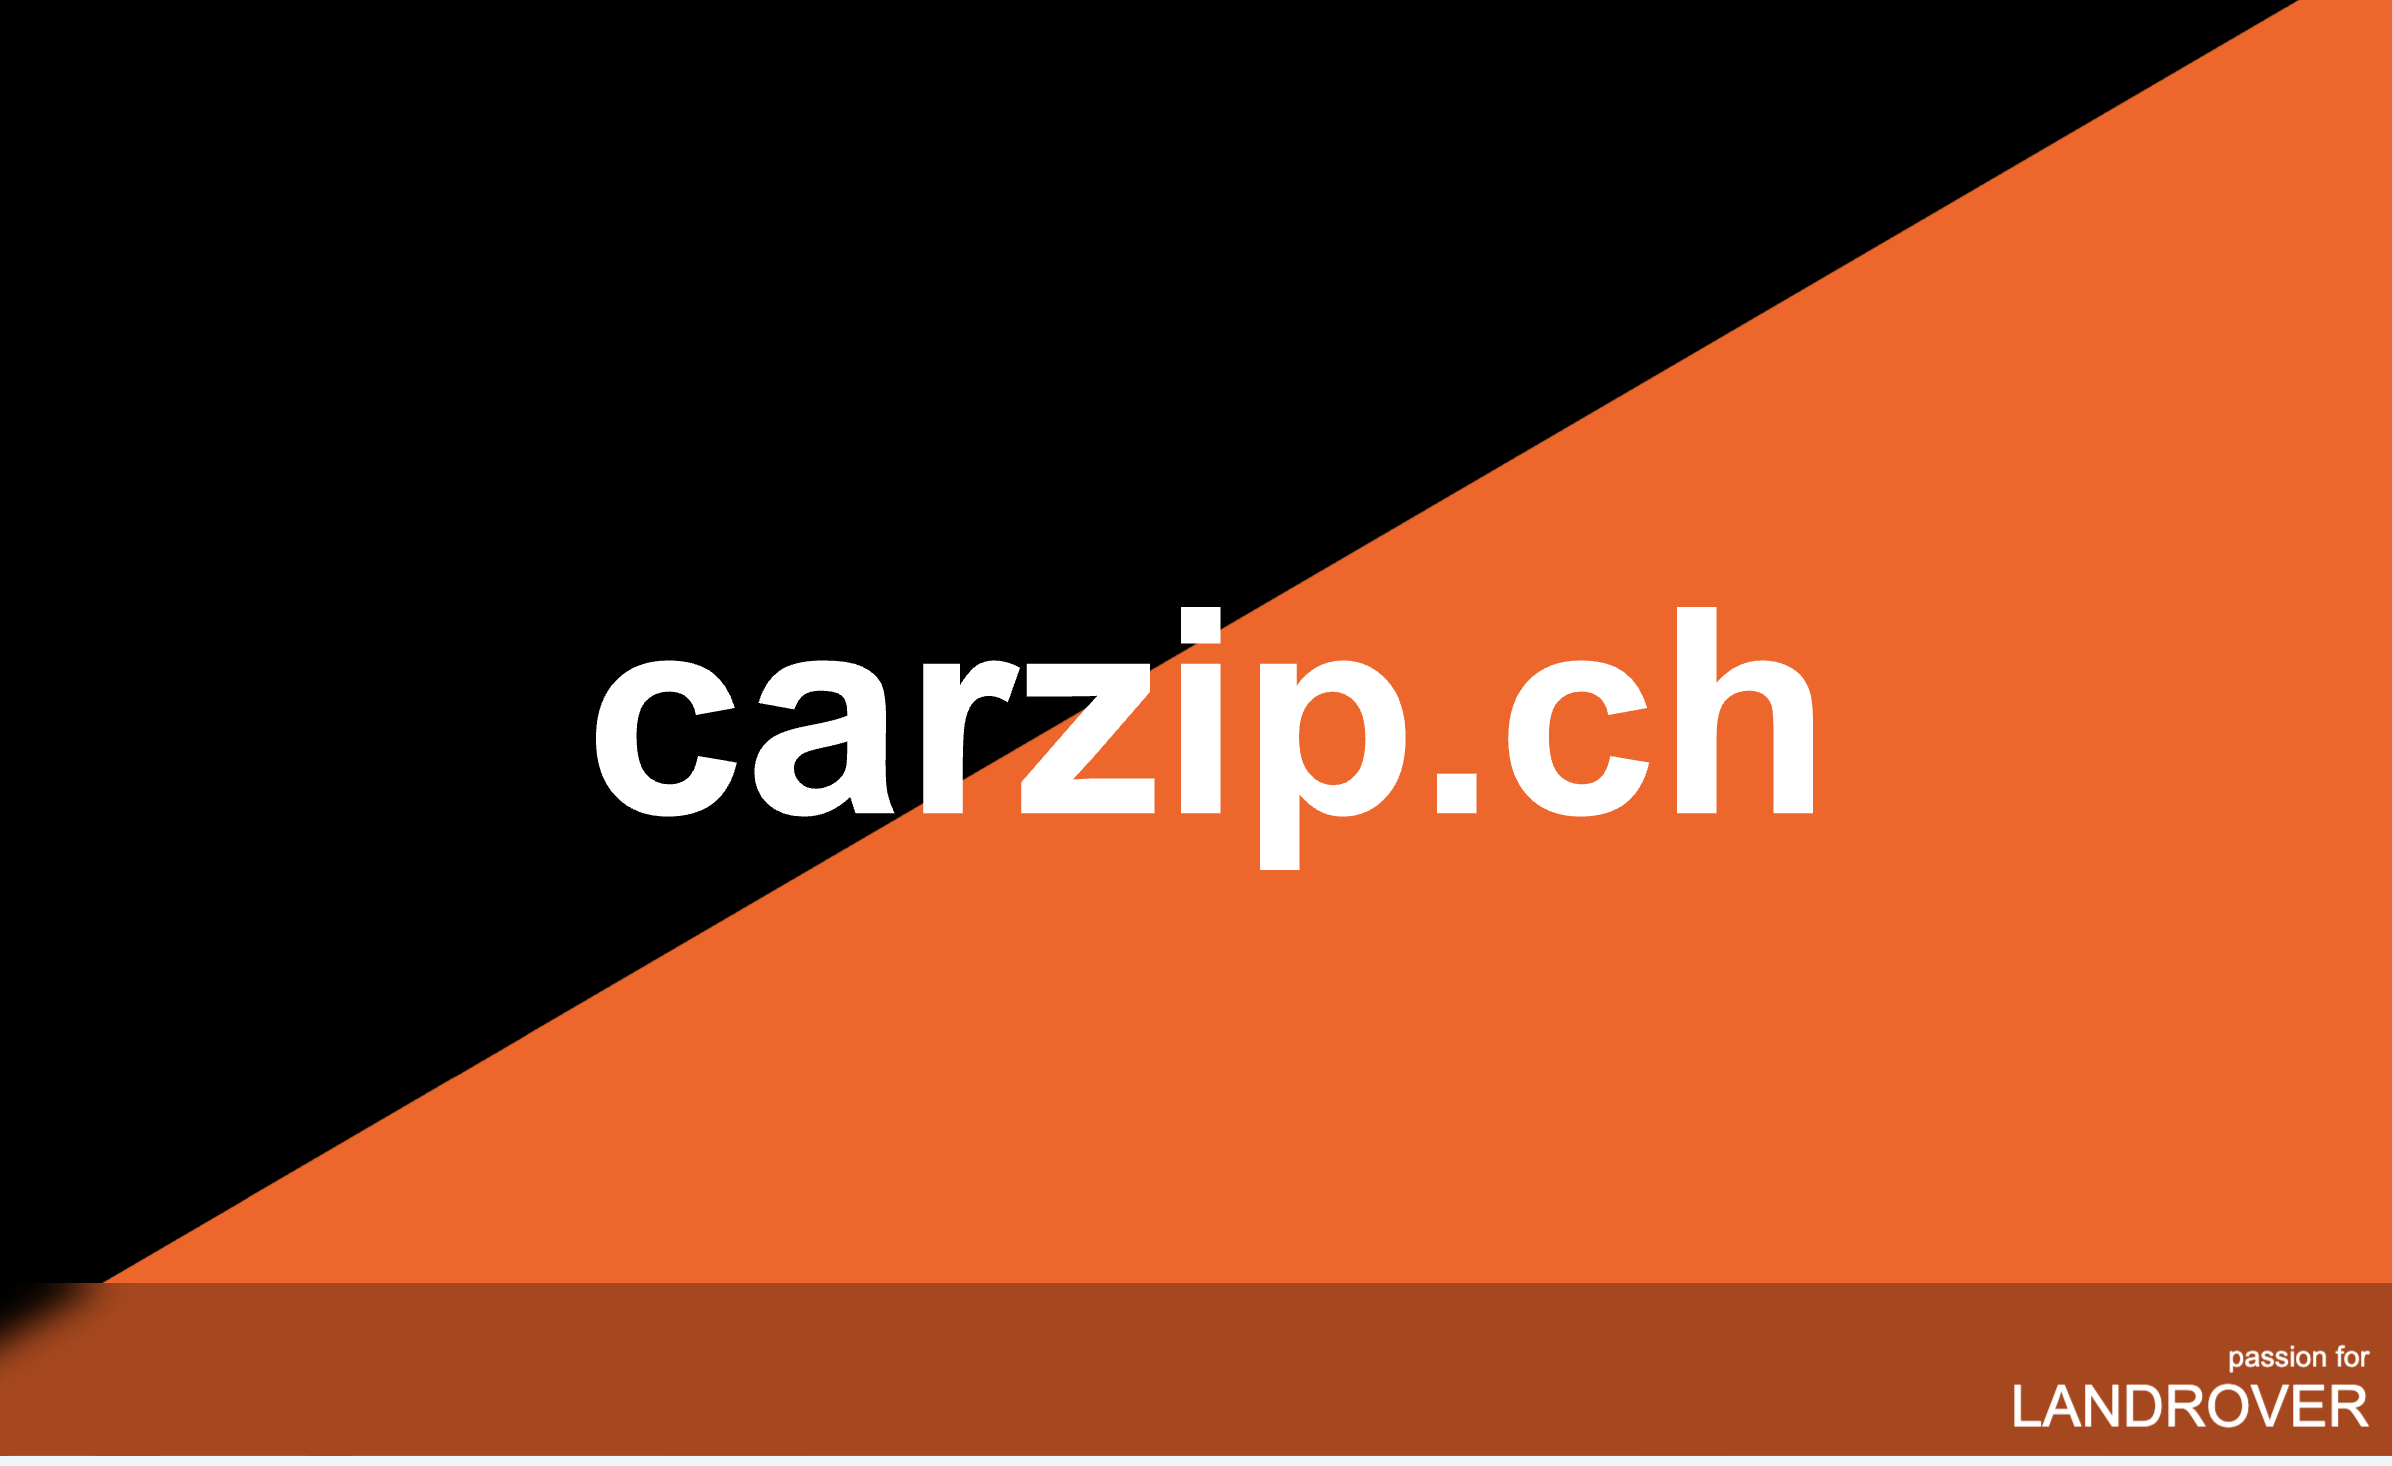
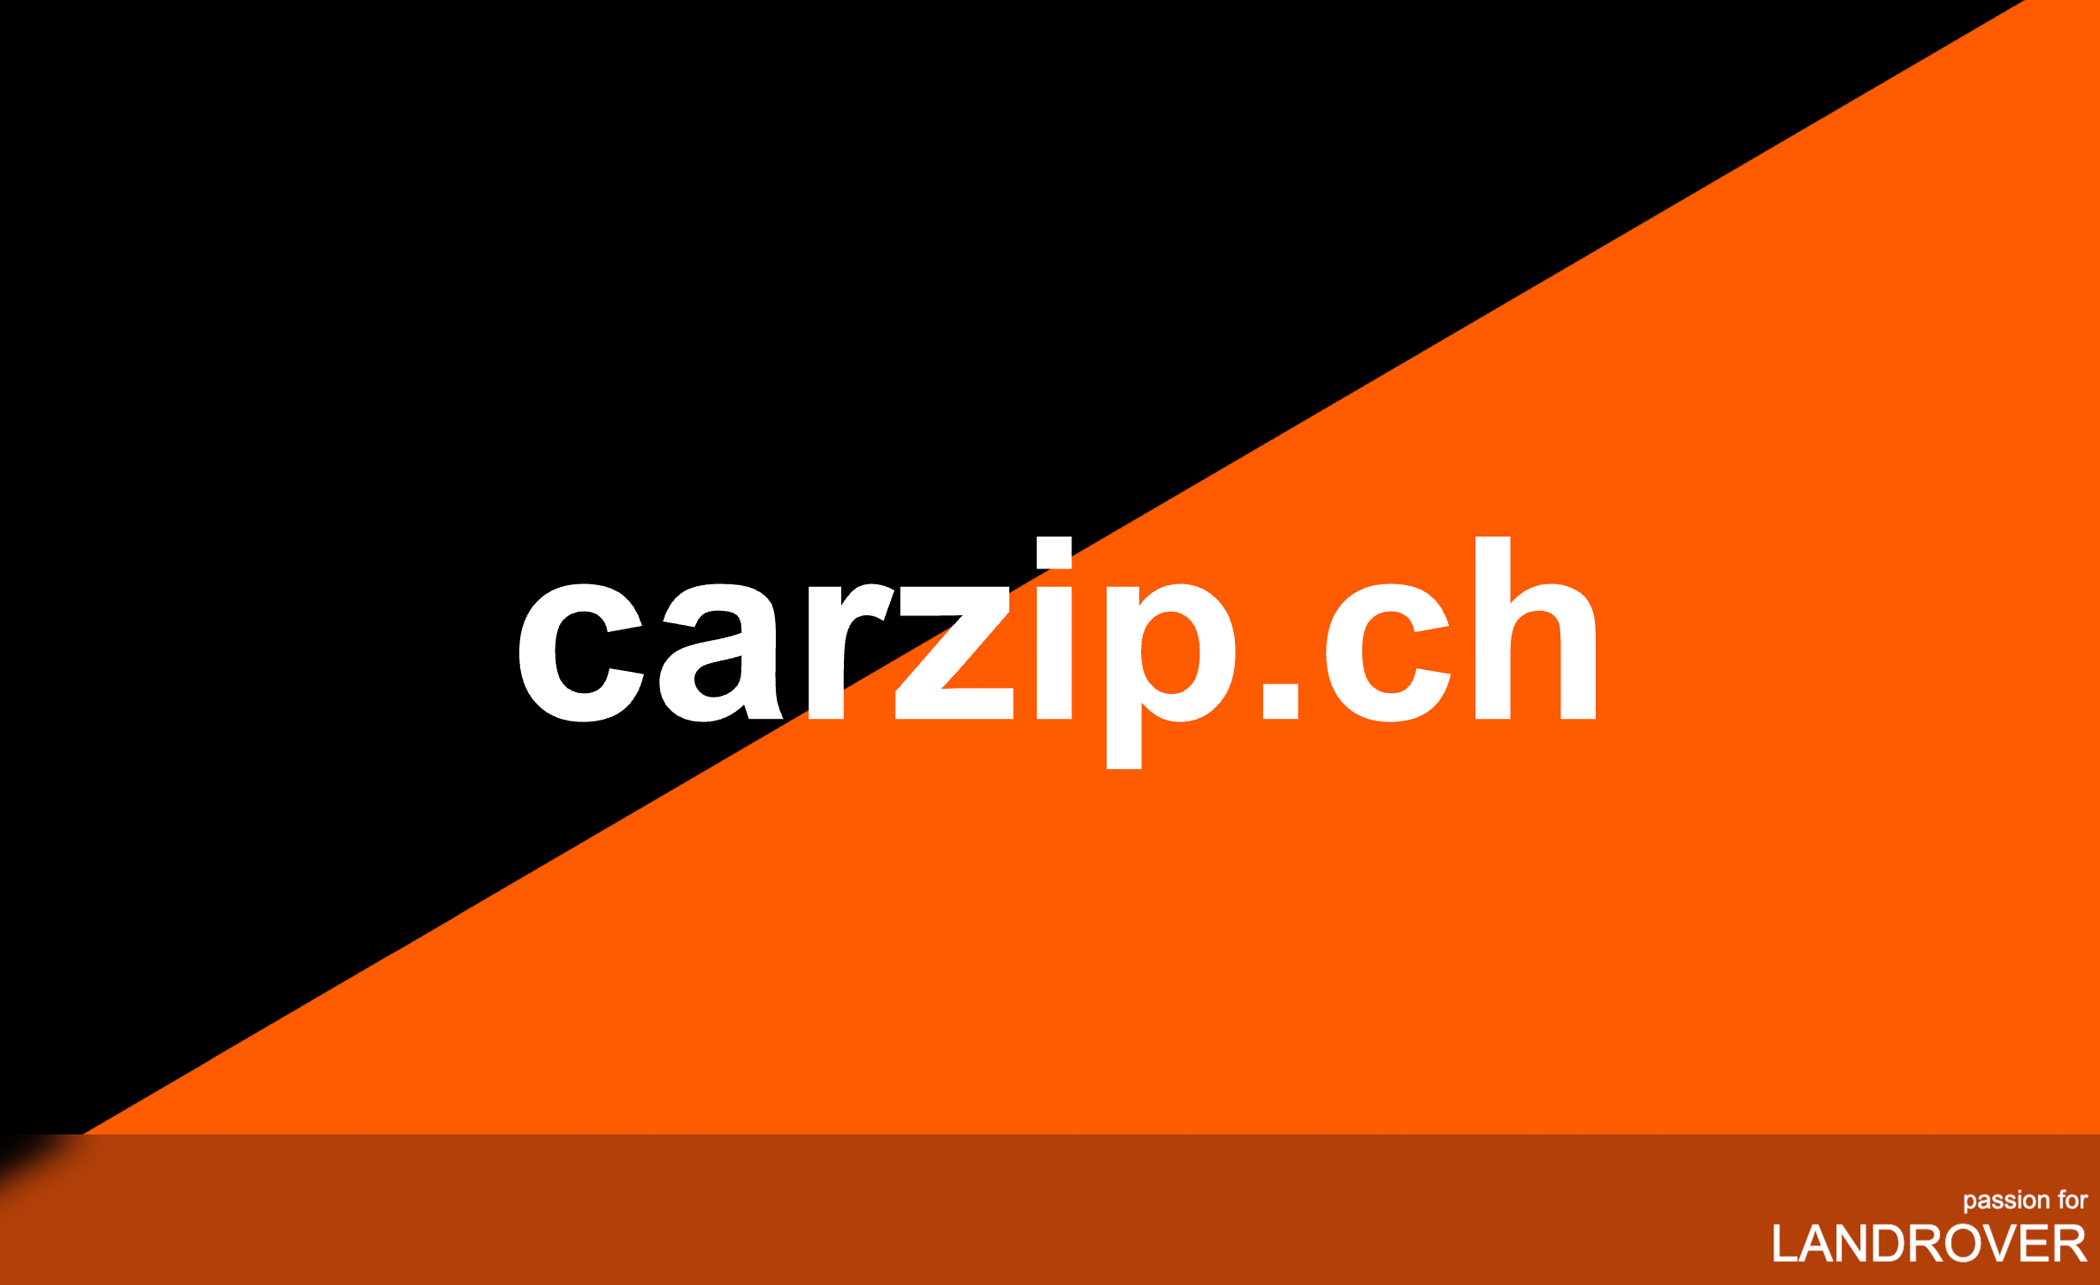
added a project and changed the size of the image

diff --git a/src/main.css b/src/main.css
@@ -398,9 +398,9 @@ p .project-description  {
 .project img {
     margin-top: 1rem;
     border: 2px solid white;
-    width: 90%;
+    width: 85%;
     border-radius: 10px;
-    margin-left: 1rem;
+    margin-left: 3rem;
 }
 
 .built-with {
